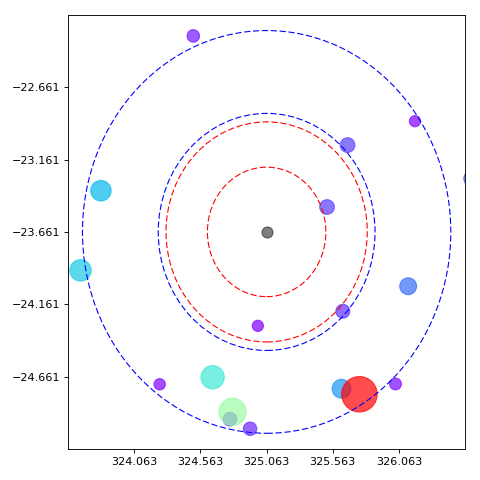
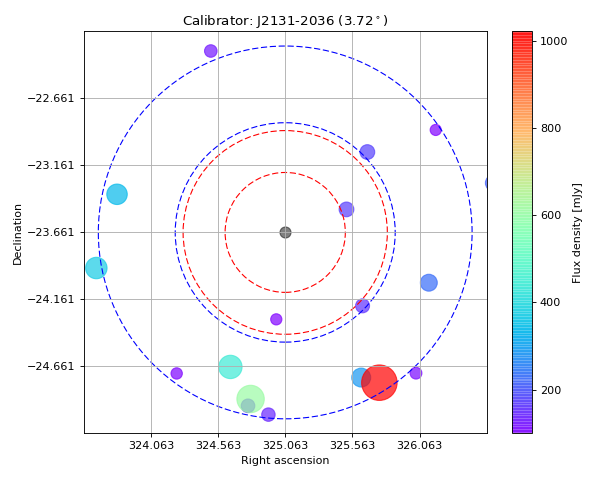
radius

diff --git a/scripts/narcissus.py b/scripts/narcissus.py
@@ -74,14 +74,14 @@ def meerkat_beamwidth(plot=False):
     null = fwhm*1.699
     return fwhm, null
 
-def nearest_sources(cc, cat='NVSS', bacat='SUMSS', show=True, filename='nearesr_bright_sources.png'):
+def nearest_sources(cc, cat='NVSS', bacat='SUMSS', radius=1.5, show=True, filename='nearesr_bright_sources.png'):
     Vizier.ROW_LIMIT = -1
     cr, cd = cc.ra.value, cc.dec.value
     try:
-        p = Vizier.query_region("%f %f"%(cr,cd), radius=1.5*u.degree, catalog=cat)
+        p = Vizier.query_region("%f %f"%(cr,cd), radius=radius*u.degree, catalog=cat)
         S = p[0][:]['S1.4']
     except:
-        p = Vizier.query_region("%f %f"%(cr,cd), radius=1.5*u.degree, catalog=bacat)
+        p = Vizier.query_region("%f %f"%(cr,cd), radius=radius*u.degree, catalog=bacat)
         S = p[0][:]['St']
     positions = co.SkyCoord(ra=co.Angle(p[0][:]['RAJ2000'], unit=u.hour), dec=co.Angle(p[0][:]['DEJ2000'], unit=u.deg))
     field = p[0]
@@ -100,8 +100,8 @@ def nearest_sources(cc, cat='NVSS', bacat='SUMSS', show=True, filename='nearesr_
     vmax=fl.max()
     cb_data = ax.scatter(x=pos.ra.deg, y=pos.dec.deg, s=fl, c=fl, alpha=0.7, \
                       norm=mc.Normalize(vmin=vmin,vmax=vmax), cmap='rainbow')
-    a = ax.set_xlim([cr-1.5,cr+1.5])
-    b = ax.set_ylim([cd-1.5,cd+1.5])
+    a = ax.set_xlim([cr-radius,cr+radius])
+    b = ax.set_ylim([cd-radius,cd+radius])
 
     fwhm, null = meerkat_beamwidth()
 
@@ -109,8 +109,9 @@ def nearest_sources(cc, cat='NVSS', bacat='SUMSS', show=True, filename='nearesr_
     ax.add_artist(plt.Circle((cr,cd), null[0], fill=False, color='red', linestyle='--'))
     ax.add_artist(plt.Circle((cr,cd), fwhm[1], fill=False, color='blue', linestyle='--'))
     ax.add_artist(plt.Circle((cr,cd), null[1], fill=False, color='blue', linestyle='--'))
-    ax.set_xticks([cr-1.,cr-0.5,cr,cr+.5,cr+1])
-    ax.set_yticks([cd-1.,cd-.5,cd,cd+.5,cd+1])
+    r = radius
+    ax.set_xticks([cr-r,cr-r/2.,cr,cr+r/2.,cr+r])
+    ax.set_yticks([cd-r,cd-r/2.,cd,cd+r/2.,cd+r])
 
     plt.axes().set_aspect('equal', 'datalim')
     ax.grid()
@@ -128,8 +129,9 @@ def nearest_sources(cc, cat='NVSS', bacat='SUMSS', show=True, filename='nearesr_
     else: fig.tight_layout(); fig.savefig(filename, dpi=80)
     
 if __name__=='__main__':
-    parser=argparse.ArgumentParser(description='Calculate whether this day is auspicious for your observation or not')
+    parser=argparse.ArgumentParser(description='Show the nearest brightest sources around a coordinate')
     parser.add_argument('-c', '--coord', help="Coordinate as '325:03:47.67 -23:39:40.71' or '325.063 -23.661'", type=str, required=True)
+    parser.add_argument('-r', '--radius', help="Radius of the region", type=float, default=1.5, required=False)
     parser.add_argument('-S', '--show', help="Add '-S' to show the plot. By default it will be saved as png", action='store_true', \
         default=False, required=False)
     args = parser.parse_args()
@@ -138,4 +140,4 @@ if __name__=='__main__':
     if len(c[0].split())==3: cc = co.SkyCoord(ra=c[0], dec=c[1], unit=(u.hourangle, u.deg))
     elif len(c[0].split())==1: cc = co.SkyCoord(ra=c[0], dec=c[1], unit='deg')
     else: raise Exception('The sky coordinate format is wrong')
-    nearest_sources(cc, show=args.show)
+    nearest_sources(cc, radius=args.radius, show=args.show)

diff --git a/scripts/auspicious.py b/scripts/auspicious.py
@@ -122,4 +122,3 @@ if __name__=='__main__':
         best_times_year(cc, year=int(args.date), lat=lat, lon=lon, utcoff=args.utc, night=args.night, elev=args.elcut, show=args.show,\
          distsun=args.dist_sun, distmoon=args.dist_moon)
     else: raise Exception('The date format is wrong')
-
